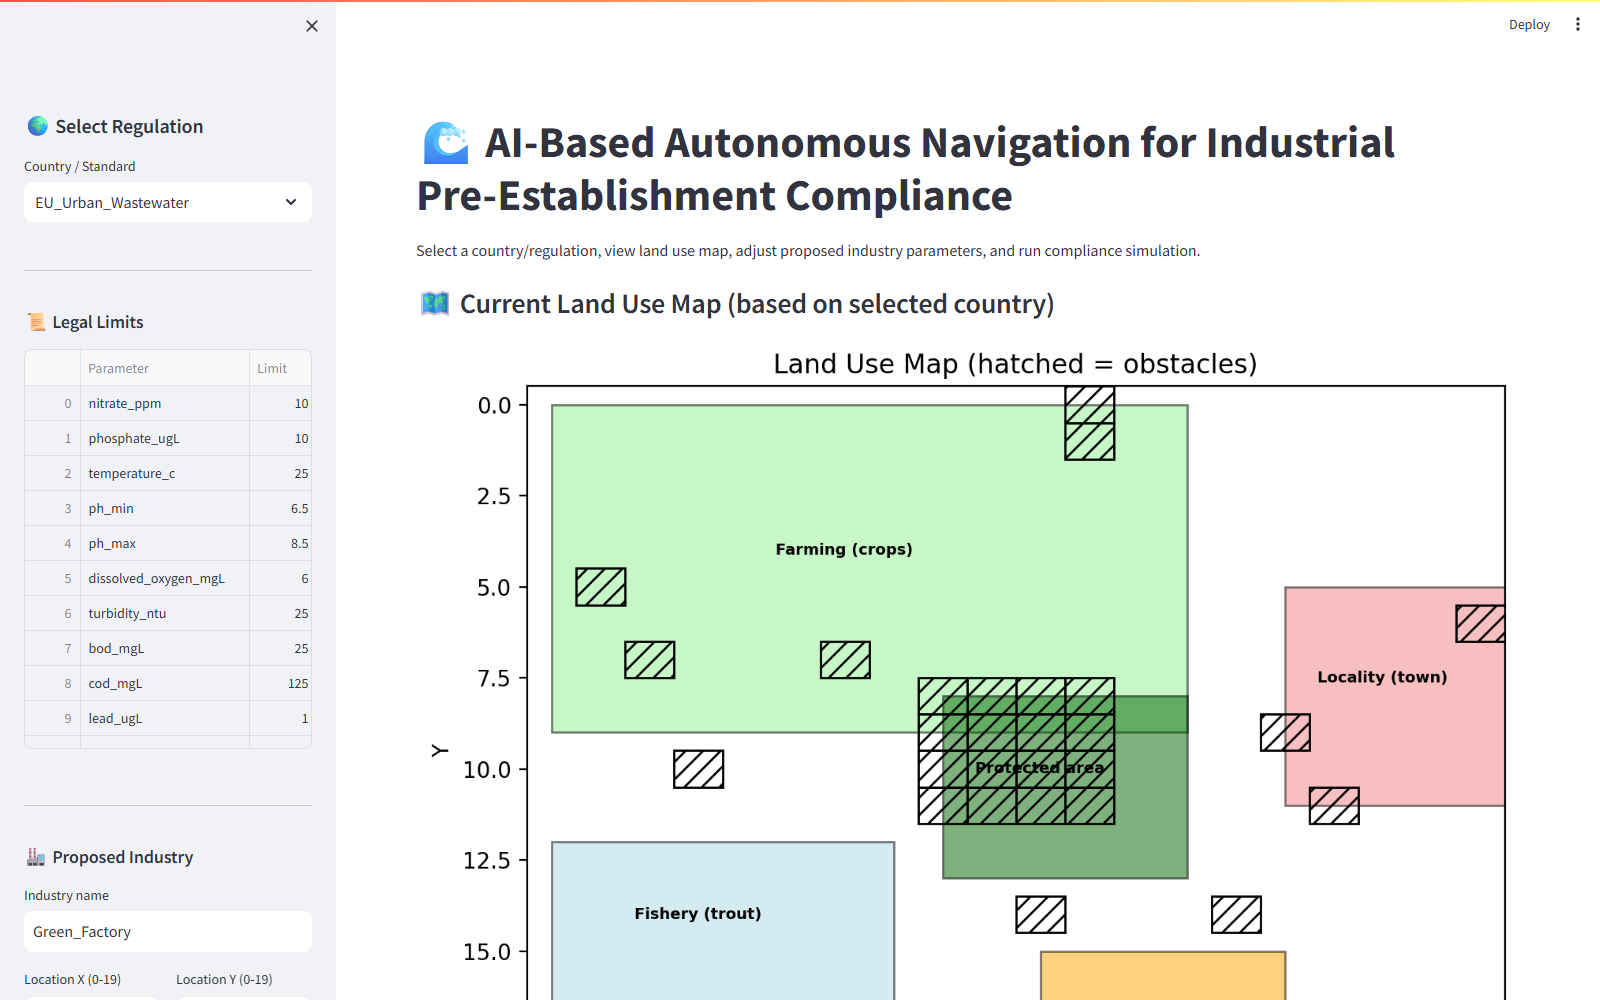
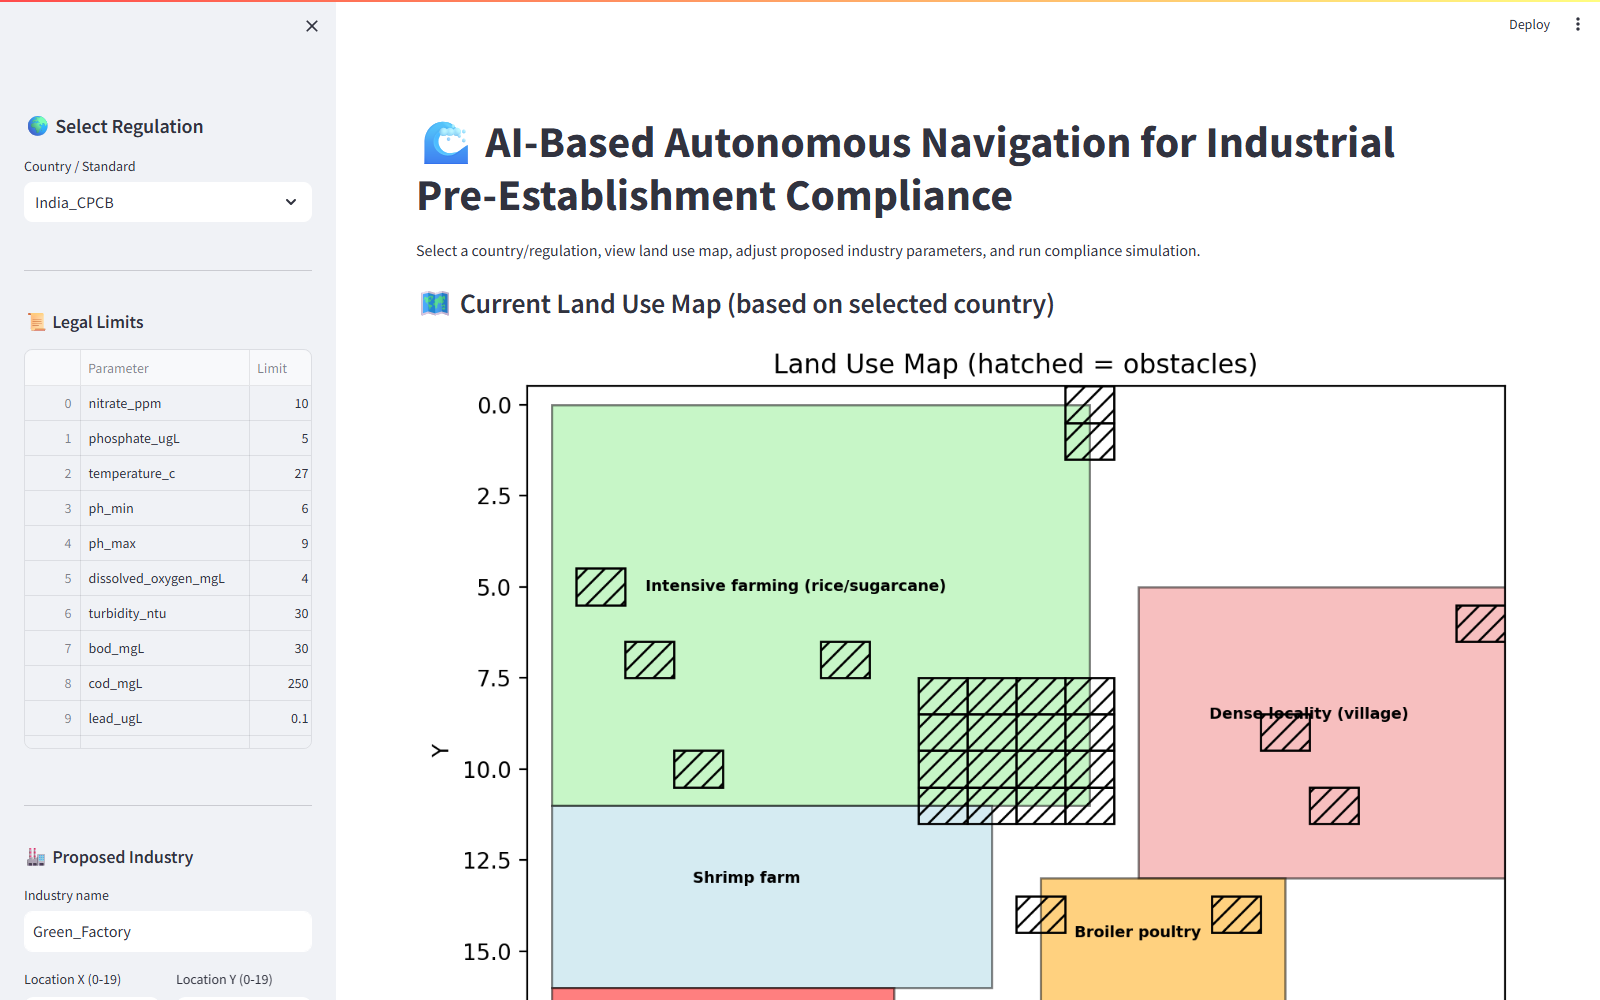
docs: capture india dashboard screenshot and set india as default

Changed region(s): [[0.3438, 0.403, 0.9375, 1.0], [0.4062, 0.527, 0.5938, 0.589], [0.0312, 0.186, 0.125, 0.217]]

diff --git a/dashboard.py b/dashboard.py
@@ -142,7 +142,7 @@ def main():
     
     with st.sidebar:
         st.header("🌍 Select Regulation")
-        country = st.selectbox("Country / Standard", list(LEGAL_LIMITS.keys()))
+        country = st.selectbox("Country / Standard", list(LEGAL_LIMITS.keys()), index=list(LEGAL_LIMITS.keys()).index("India_CPCB"))
         
         st.markdown("---")
         st.subheader("📜 Legal Limits")
